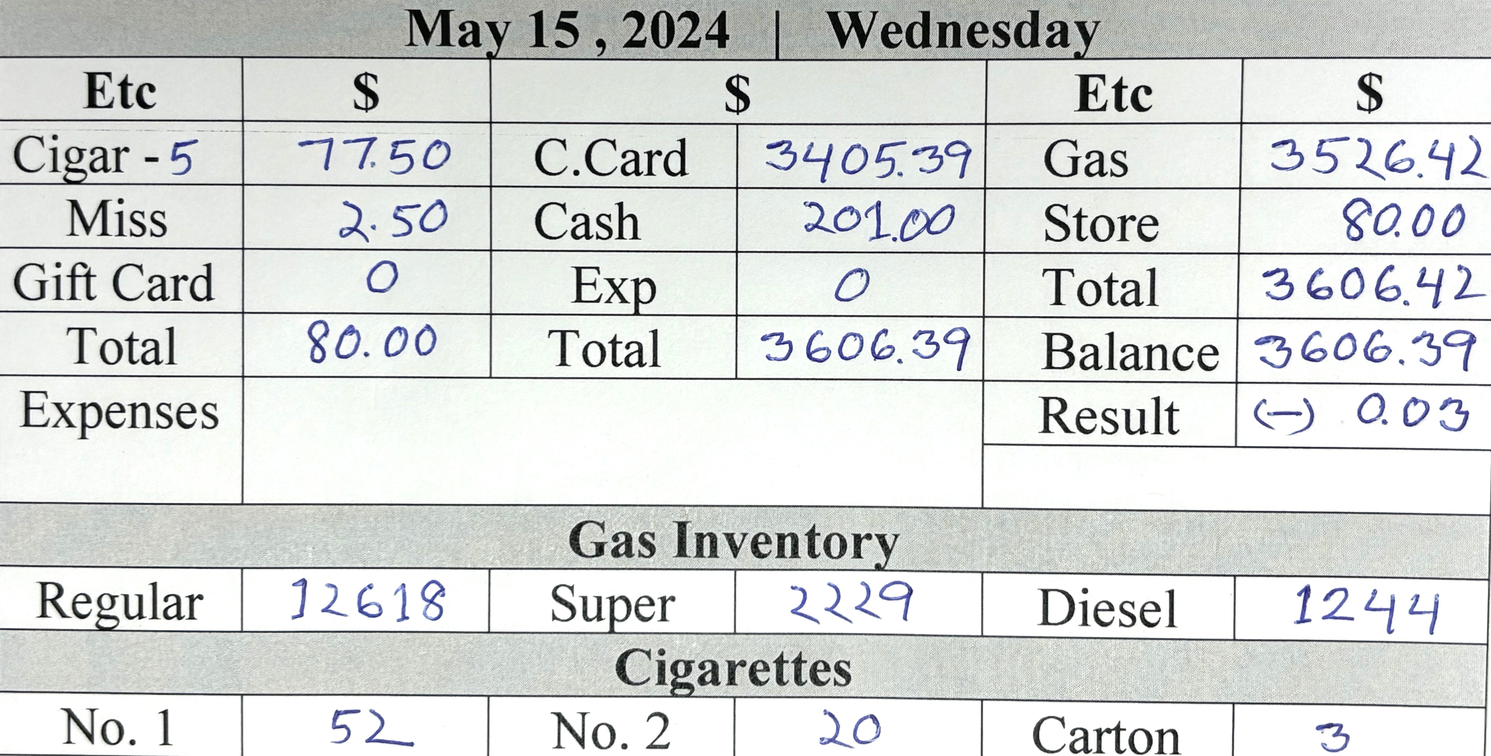
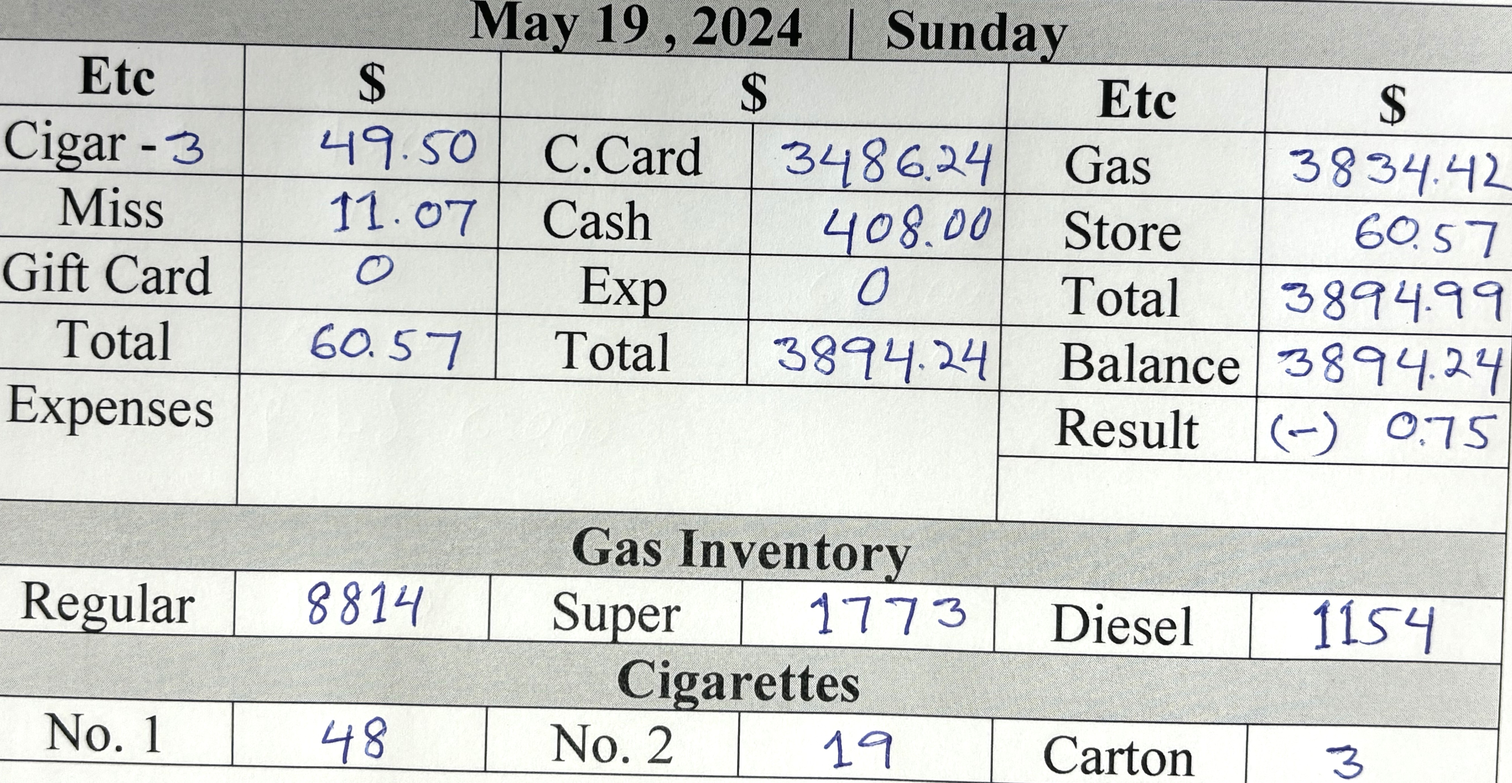
d

diff --git a/card.min.html b/card.min.html
@@ -1,1 +1,1 @@
-<!DOCTYPE html> <html lang="en"> <head> <meta charset="UTF-8"> <meta http-equiv="X-UA-Compatible" content="IE=edge"> <meta name="viewport" content="width=device-width,initial-scale=1"> <title>Gallon Info</title> <link rel="stylesheet" href="https://cdn.jsdelivr.net/npm/bootstrap@5.3.0-alpha1/dist/css/bootstrap.min.css"> </head> <body> <div class="card-group d-sm-flex flex-row bd-highlight mb- justify-content-center"> <div class="card bg-secondary align-items-center justify-content-center" style="height:50px"> <div class="card-body text-info fst-italic"> <h5 class="card-title fw-bolder text-center">Regular Price : <span class="text-warning">$3.59 <sup class="text-white fw-bolder fs-5">9</sup></span></h5> </div> </div> <div class="card bg-secondary align-items-center justify-content-center" style="height:50px"> <div class="card-body text-info fst-italic"> <h5 class="card-title fw-bolder text-center pt-">Silver Price : <span class="text-warning">$4.55<sup class="text-white fw-bolder fs-5">9</sup></span></h5> </div> </div> <div class="card bg-secondary align-items-center justify-content-center" style="height:50px"> <div class="card-body text-info fst-italic"> <h5 class="card-title fw-bolder text-center">Super Price : <span class="text-warning">$4.65<sup class="text-white fw-bolder fs-5">9</sup></span></h5> </div> </div> <div class="card bg-secondary align-items-center justify-content-center" style="height:50px"> <div class="card-body text-info fst-italic"> <h5 class="card-title fw-bolder text-center">Diesel Price : <span class="text-warning">$4.45<sup class="text-white fw-bolder fs-5">9</sup></span></h5> </div> </div> </div> <div class="card-group"> <div class="card"> <button type="button" class="btn btn-warning text- fs- fw-bold text-uppercase"> For store Details <a title="printPage Me" class="text-bg-danger ms-3 fw-bolder p-1 rounded-3 text-decoration-none" href="index.html"> Click Me </a> </button> </div> </div> <div class="card-group m-0 d-sm-flex flex-row bd-highlight mb-"> <div class="card me-1 bg-info"> <h5 class="card-title text-center pt-4 m-0"> <button class="p-1 rounded-3" type="button"><a title="Click Me" class="text-decoration-none text-primary fw-bolder" href="index.html">   </a> </button> </h5>  <p class="card-text"></p> <img src="allPic/15.jpg" class="card-img-top text-danger text-center fw-bolder fs-3" alt="Call Rashid "> <div class="card-body">   <p class="card-text"></p> </div> </div> <div class="card me-1 bg-info"> <h5 class="card-title text-center pt-4 m-0"> <button class="p-1 rounded-3" type="button"><a title="Click Me" class="text-primary fw-bolder text-decoration-none" href="index.html"> May 14,2024 </a> </button> </h5>  <p class="card-text"></p> <img src="allPic/14.jpg" class="card-img-top text-center text-bg-danger" alt="Not Done"> <div class="card-body">   <p class="card-text"></p> </div> </div> <div class="card ms- bg-info"> <h5 class="card-title text-center pt-4 m-0"> <button class="p-1 rounded-3" type="button"><a title="Click Me" class="text-primary fw-bolder text-decoration-none" href="index.html"> May 13 ,2024 </a> </button> </h5>  <p class="card-text"></p> <img src="allPic/13.jpg" class="card-img-top text-center text-bg-danger" alt="Not Done"> <div class="card-body">   <p class="card-text"></p> </div> </div> <div class="card me-1 bg-info"> <h5 class="card-title text-center pt-4 m-0"> <button class="p-1 rounded-3" type="button"><a title="Click Me" class="text-primary fw-bolder text-decoration-none" href="index.html"> May 12,2024 </a> </button> </h5>  <p class="card-text"></p> <img title="Pic" src="allPic/12.jpg" class="card-img-top text-bg-danger fw-bolder text-center" alt="Already Done"> <div class="card-body">   <p class="card-text"></p> </div> </div> </div> <div class="card"> <div class="card-header bg-warning text-dark fw-bolder text-center py-3"> All Rights Reserved @ Jaber Ali , 2024 </div> </div>  <script type="text/javascript">const timeElement=document.querySelector(".time"),dateElement=document.querySelector(".date");function formatTime(e){e.getHours(),e.getMinutes(),e.getHours();return""}function formatDate(e){return` ${["January","Marruary","March","April","May","June","July","August","September","October","November","December"][e.getMonth()]} ${e.getDate()-1}, ${e.getFullYear()}`}setInterval((()=>{const e=new Date;timeElement.textContent=formatTime(e),dateElement.textContent=formatDate(e)}),200)</script> 
+<!DOCTYPE html> <html lang="en"> <head> <meta charset="UTF-8"> <meta http-equiv="X-UA-Compatible" content="IE=edge"> <meta name="viewport" content="width=device-width,initial-scale=1"> <title>Gallon Info</title> <link rel="stylesheet" href="https://cdn.jsdelivr.net/npm/bootstrap@5.3.0-alpha1/dist/css/bootstrap.min.css"> </head> <body> <div class="card-group d-sm-flex flex-row bd-highlight mb- justify-content-center"> <div class="card bg-secondary align-items-center justify-content-center" style="height:50px"> <div class="card-body text-info fst-italic"> <h5 class="card-title fw-bolder text-center">Regular Price : <span class="text-warning">$3.59 <sup class="text-white fw-bolder fs-5">9</sup></span></h5> </div> </div> <div class="card bg-secondary align-items-center justify-content-center" style="height:50px"> <div class="card-body text-info fst-italic"> <h5 class="card-title fw-bolder text-center pt-">Silver Price : <span class="text-warning">$4.55<sup class="text-white fw-bolder fs-5">9</sup></span></h5> </div> </div> <div class="card bg-secondary align-items-center justify-content-center" style="height:50px"> <div class="card-body text-info fst-italic"> <h5 class="card-title fw-bolder text-center">Super Price : <span class="text-warning">$4.65<sup class="text-white fw-bolder fs-5">9</sup></span></h5> </div> </div> <div class="card bg-secondary align-items-center justify-content-center" style="height:50px"> <div class="card-body text-info fst-italic"> <h5 class="card-title fw-bolder text-center">Diesel Price : <span class="text-warning">$4.45<sup class="text-white fw-bolder fs-5">9</sup></span></h5> </div> </div> </div> <div class="card-group"> <div class="card"> <button type="button" class="btn btn-warning text- fs- fw-bold text-uppercase"> For store Details <a title="printPage Me" class="text-bg-danger ms-3 fw-bolder p-1 rounded-3 text-decoration-none" href="index.html"> Click Me </a> </button> </div> </div> <div class="card-group m-0 d-sm-flex flex-row bd-highlight mb-"> <div class="card me-1 bg-info"> <h5 class="card-title text-center pt-4 m-0"> <button class="p-1 rounded-3" type="button"><a title="Click Me" class="text-decoration-none text-primary fw-bolder" href="index.html">   </a> </button> </h5>  <p class="card-text"></p> <img src="allPic/19.jpg" class="card-img-top text-danger text-center fw-bolder fs-3" alt="Call Rashid "> <div class="card-body">   <p class="card-text"></p> </div> </div> <div class="card me-1 bg-info"> <h5 class="card-title text-center pt-4 m-0"> <button class="p-1 rounded-3" type="button"><a title="Click Me" class="text-primary fw-bolder text-decoration-none" href="index.html"> May 18,2024 </a> </button> </h5>  <p class="card-text"></p> <img src="allPic/18.jpg" class="card-img-top text-center text-bg-danger" alt="Not Done"> <div class="card-body">   <p class="card-text"></p> </div> </div> <div class="card ms- bg-info"> <h5 class="card-title text-center pt-4 m-0"> <button class="p-1 rounded-3" type="button"><a title="Click Me" class="text-primary fw-bolder text-decoration-none" href="index.html"> May 17 ,2024 </a> </button> </h5>  <p class="card-text"></p> <img src="allPic/17.jpg" class="card-img-top text-center text-bg-danger" alt="Not Done"> <div class="card-body">   <p class="card-text"></p> </div> </div> <div class="card me-1 bg-info"> <h5 class="card-title text-center pt-4 m-0"> <button class="p-1 rounded-3" type="button"><a title="Click Me" class="text-primary fw-bolder text-decoration-none" href="index.html"> May 16,2024 </a> </button> </h5>  <p class="card-text"></p> <img title="Pic" src="allPic/16.jpg" class="card-img-top text-bg-danger fw-bolder text-center" alt="Already Done"> <div class="card-body">   <p class="card-text"></p> </div> </div> </div> <div class="card"> <div class="card-header bg-warning text-dark fw-bolder text-center py-3"> All Rights Reserved @ Jaber Ali , 2024 </div> </div>  <script type="text/javascript">const timeElement=document.querySelector(".time"),dateElement=document.querySelector(".date");function formatTime(e){e.getHours(),e.getMinutes(),e.getHours();return""}function formatDate(e){return` ${["January","Marruary","March","April","May","June","July","August","September","October","November","December"][e.getMonth()]} ${e.getDate()-1}, ${e.getFullYear()}`}setInterval((()=>{const e=new Date;timeElement.textContent=formatTime(e),dateElement.textContent=formatDate(e)}),200)</script> 

diff --git a/weekly.min.html b/weekly.min.html
@@ -1,1 +1,1 @@
-<!DOCTYPE html> <html lang="en"> <meta charset="UTF-8"> <meta http-equiv="X-UA-Compatible" content="IE=edge"> <meta name="viewport" content="width=device-width,initial-scale=1"> <title>Cigarettes Info</title> <link rel="stylesheet" href="https://cdn.jsdelivr.net/npm/bootstrap@5.3.0-alpha1/dist/css/bootstrap.min.css">  <body> <div class="text-bg-success py-2 fw-bold"> <marquee behavior="" direction="">Weekly Total Sales Money</marquee> </div> <div class="container-fluid text-center m-0 p-0"> <div class="card-group"> <div class="card"> <button type="button" class="btn btn-warning fs- fw-bold text-uppercase"> Home Page <a title="printPage Me" class="text-bg-danger ms-2 fw-bolder p-1 rounded-3 text-decoration-none" href="index.html"> Click Me </a> </button> </div> </div> <div class="text-bg-info text-cente py- fw-bold mb-"> <div class="card-group m-0 d-sm-flex flex-row bd-highlight mb-"> <div class="card me- bg-inf"> <h5 class="text-center ms-5 mt-3 text-danger">Current Week</h5> <div class="card-body ms-3 p-0"> <table class="table"> <tr class="text-end"> <td>Monday </td> <td>:</td> <td class="text-start"> 591.00 </td> </tr> <tr class="text-end"> <td>Tuesday </td> <td> :</td> <td class="text-start"> 995.00 </td> </tr> <tr class="text-end"> <td>Wednesday</td> <td> :</td> <td class="text-start"> 201.00</td> </tr> <tr class="text-end"> <td>Thursday </td> <td> :</td> <td class="text-start"> .00 </td> </tr> <tr class="text-end"> <td class="">Friday </td> <td> :</td> <td class="text-start"> .00</td> </tr> <tr class="text-end"> <td>Saturday </td> <td> :</td> <td class="text-start"> .00</td> </tr> <tr class="text-end"> <td>Sunday </td> <td> :</td> <td class="text-start"> .00 </td> </tr> <tr class="text-end"> <td>Auto Money </td> <td> :</td> <td class="text-start"> .00 </td> </tr> </table> <div class="m-0 p-0"> <p class="text-center text-danger bg-light fw-bold">Total Money : 0 </p> </div> </div> </div> <div class="card me- bg-inf"> <h5 class="text-center ms- mt-3 text-danger">Last Week : May 6 to 11 , 2024</h5> <div class="card-body ms-3 p-0"> <table class="table"> <tr class="text-end"> <td>Monday </td> <td>:</td> <td class="text-start"> - 497.00 [auto pabe]</td> </tr> <tr class="text-end"> <td>Tuesday </td> <td> :</td> <td class="text-start"> 899.00 </td> </tr> <tr class="text-end"> <td>Wednesday</td> <td> :</td> <td class="text-start"> 577.00</td> </tr> <tr class="text-end"> <td>Thursday </td> <td> :</td> <td class="text-start">841.00 </td> </tr> <tr class="text-end"> <td class="">Friday </td> <td> :</td> <td class="text-start"> 613.00</td> </tr> <tr class="text-end"> <td>Saturday </td> <td> :</td> <td class="text-start"> 489.00</td> </tr> <tr class="text-end"> <td>Sunday </td> <td> :</td> <td class="text-start"> 636.00 </td> </tr> <tr class="text-end"> <td>Auto Money </td> <td> :</td> <td class="text-start"> 1425 <sup class="p-1 rounded-4 text-bg-dark">Tax:96</sup> [Mostofa=1330] </td> </tr> </table> <div class="m-0 p-0"> <p class="text-center text-danger bg-light fw-bold">Total Money : 4983 - 1097 = 3886 </p> </div> </div> </div> <div class="card me- bg-"> <div class="card-body"> <h5 class="text-start text-danger ms-2">Expenses of Last Week</h5> <table class="table text-start"> <tr> <td class="">Ali <span class="ms-5">: 525.00</span></td> </tr> <tr> <td class="">Rashid <span class="ms-3">: 572.00</span></td> </tr> <tr> </tr> <tr> </tr> <tr> <td class="text-bg-warning text-dark rounded-2">Total <span class="ms-4">: 1097.00</span></td> </tr> </table> </div> </div> </div> </div> <!-- #footer start --> <div class="text-bg-success text-center py-2 fw-bold"> <p> All Rights Reserved @ Jaber Ali , 2024  </p> </div> </div> <script type="text/javascript">function printPage(){window.print()}</script> 
+<!DOCTYPE html> <html lang="en"> <meta charset="UTF-8"> <meta http-equiv="X-UA-Compatible" content="IE=edge"> <meta name="viewport" content="width=device-width,initial-scale=1"> <title>Cigarettes Info</title> <link rel="stylesheet" href="https://cdn.jsdelivr.net/npm/bootstrap@5.3.0-alpha1/dist/css/bootstrap.min.css">  <body> <div class="text-bg-success py-2 fw-bold"> <marquee behavior="" direction="">Weekly Total Sales Money</marquee> </div> <div class="container-fluid text-center m-0 p-0"> <div class="card-group"> <div class="card"> <button type="button" class="btn btn-warning fs- fw-bold text-uppercase"> Home Page <a title="printPage Me" class="text-bg-danger ms-2 fw-bolder p-1 rounded-3 text-decoration-none" href="index.html"> Click Me </a> </button> </div> </div> <div class="text-bg-info text-cente py- fw-bold mb-"> <div class="card-group m-0 d-sm-flex flex-row bd-highlight mb-"> <div class="card me- bg-inf"> <h5 class="text-center ms-5 mt-3 text-danger">Current Week</h5> <div class="card-body ms-3 p-0"> <table class="table"> <tr class="text-end"> <td>Monday </td> <td>:</td> <td class="text-start"> 591.00 </td> </tr> <tr class="text-end"> <td>Tuesday </td> <td> :</td> <td class="text-start"> 995.00 </td> </tr> <tr class="text-end"> <td>Wednesday</td> <td> :</td> <td class="text-start"> 201.00</td> </tr> <tr class="text-end"> <td>Thursday </td> <td> :</td> <td class="text-start"> - 183.00 [ auto pabe ] </td> </tr> <tr class="text-end"> <td class="">Friday </td> <td> :</td> <td class="text-start"> 684.00</td> </tr> <tr class="text-end"> <td>Saturday </td> <td> :</td> <td class="text-start"> 346.00</td> </tr> <tr class="text-end"> <td>Sunday </td> <td> :</td> <td class="text-start"> 408.00 </td> </tr> <tr class="text-end"> <td>Auto Money </td> <td> :</td> <td class="text-start"> .00 </td> </tr> </table> <div class="m-0 p-0"> <p class="text-center text-danger bg-light fw-bold">Total Money : 0 </p> </div> </div> </div> <div class="card me- bg-inf"> <h5 class="text-center ms- mt-3 text-danger">Last Week : May 13 to 18 , 2024</h5> <div class="card-body ms-3 p-0"> <table class="table"> <tr class="text-end"> <td>Monday </td> <td>:</td> <td class="text-start"> 591.00 </td> </tr> <tr class="text-end"> <td>Tuesday </td> <td> :</td> <td class="text-start"> 995.00 </td> </tr> <tr class="text-end"> <td>Wednesday</td> <td> :</td> <td class="text-start"> 201.00</td> </tr> <tr class="text-end"> <td>Thursday </td> <td> :</td> <td class="text-start"> - 183.00 [ auto pabe ] </td> </tr> <tr class="text-end"> <td class="">Friday </td> <td> :</td> <td class="text-start"> 684.00</td> </tr> <tr class="text-end"> <td>Saturday </td> <td> :</td> <td class="text-start"> 346.00</td> </tr> <tr class="text-end"> <td>Sunday </td> <td> :</td> <td class="text-start"> 408.00 </td> </tr> <tr class="text-end"> <td>Auto Money </td> <td> :</td> <td class="text-start"> 1425 <sup class="p-1 rounded-4 text-bg-dark">Tax:</sup> [Mostofa=0] </td> </tr> </table> <div class="m-0 p-0"> <p class="text-center text-danger bg-light fw-bold">Total Money : 0 - 0= Not Finish </p> </div> </div> </div> <div class="card me- bg-"> <div class="card-body"> <h5 class="text-start text-danger ms-2">Expenses of Last Week</h5> <table class="table text-start"> <tr> <td class="">Ali <span class="ms-5">: 577.00</span></td> </tr> <tr> <td class="">Rashid <span class="ms-3">: 650.00</span></td> </tr> <tr> </tr> <tr> </tr> <tr> <td class="text-bg-warning text-dark rounded-2">Total <span class="ms-4">: 1227.00</span></td> </tr> </table> </div> </div> </div> </div> <!-- #footer start --> <div class="text-bg-success text-center py-2 fw-bold"> <p> All Rights Reserved @ Jaber Ali , 2024  </p> </div> </div> <script type="text/javascript">function printPage(){window.print()}</script> 

diff --git a/weekly.html b/weekly.html
@@ -64,22 +64,22 @@
                 <tr class=" text-end">
                     <td>Thursday </td>
                     <td> :</td>
-                    <td class="text-start"> .00  </td>  
+                    <td class="text-start"> - 183.00 [ auto pabe ] </td>  
                 </tr>
                 <tr class=" text-end">
                     <td class="">Friday </td>
                     <td> :</td>
-                    <td class="text-start">  .00</td>  
+                    <td class="text-start">  684.00</td>  
                 </tr>
                 <tr class=" text-end">
                     <td>Saturday </td>
                     <td> :</td>
-                    <td class="text-start"> .00</td>
+                    <td class="text-start"> 346.00</td>
                 </tr>
                 <tr class=" text-end">
                     <td>Sunday </td>
                     <td> :</td>
-                    <td class="text-start"> .00 </td> 
+                    <td class="text-start"> 408.00 </td> 
                 </tr>
                 <tr class=" text-end">
                   <td>Auto Money </td>
@@ -97,56 +97,56 @@
         </div>
 <!-- last week -->
 <div class="card me- bg-inf">
-  <h5 class=" text-center ms- mt-3 text-danger">Last Week : May 6 to 11 , 2024</h5>
+  <h5 class=" text-center ms- mt-3 text-danger">Last Week : May 13 to 18 , 2024</h5>
   <!-- left side -->
   <div class="card-body ms-3 p-0">
     <table class="table ">
       <tr class="text-end">
         <td >Monday </td>
         <td >:</td>
-        <td class="text-start"> - 497.00 [auto pabe]</td>
+        <td class="text-start"> 591.00 </td>
     </tr>
     <tr class=" text-end">
         <td>Tuesday </td>
         <td> :</td>
-        <td class="text-start">  899.00 </td>
+        <td class="text-start">  995.00 </td>
     </tr>
     <tr class=" text-end">
         <td>Wednesday</td>
         <td> :</td>
-        <td class="text-start"> 577.00</td>
+        <td class="text-start"> 201.00</td>
     </tr>
     <tr class=" text-end">
         <td>Thursday </td>
         <td> :</td>
-        <td class="text-start">841.00  </td>  
+        <td class="text-start"> - 183.00 [ auto pabe ] </td>  
     </tr>
     <tr class=" text-end">
         <td class="">Friday </td>
         <td> :</td>
-        <td class="text-start">  613.00</td>  
+        <td class="text-start">  684.00</td>  
     </tr>
     <tr class=" text-end">
         <td>Saturday </td>
         <td> :</td>
-        <td class="text-start"> 489.00</td>
+        <td class="text-start"> 346.00</td>
     </tr>
     <tr class=" text-end">
         <td>Sunday </td>
         <td> :</td>
-        <td class="text-start"> 636.00 </td> 
+        <td class="text-start"> 408.00 </td> 
     </tr>
       <tr class=" text-end">
         <td>Auto Money </td>
         <td> :</td>
         <td class="text-start"> 1425
-          <sup class=" p-1 rounded-4 text-bg-dark">Tax:96</sup> [Mostofa=1330]  
+          <sup class=" p-1 rounded-4 text-bg-dark">Tax:</sup> [Mostofa=0]  
         </td>
     </tr>
 
   </table>
     <div class="m-0 p-0 ">
-        <p class="text-center text-danger bg-light fw-bold ">Total Money : 4983 - 1097 = 3886 
+        <p class="text-center text-danger bg-light fw-bold ">Total Money : 0 -  0= Not Finish
           
         </p>
     </div>
@@ -158,10 +158,10 @@
            <h5 class=" text-start text-danger ms-2">Expenses of Last Week</h5>
            <table class="table text-start">
             <tr>
-                <td class="">Ali  <span class="ms-5">:  525.00</span></td>
+                <td class="">Ali  <span class="ms-5">:  577.00</span></td>
             </tr>
             <tr>
-              <td class="">Rashid  <span class="ms-3">:  572.00</span></td>
+              <td class="">Rashid  <span class="ms-3">:  650.00</span></td>
           </tr>
            <tr>
           <!-- <td class="">Landscaping <span class="ms-2">:  120.00</span></td>  -->
@@ -170,7 +170,7 @@
           <!-- <td class="">Pump Test <span class="ms-2">:  2.00</span></td> -->
       </tr> 
         <tr>
-          <td class=" text-bg-warning text-dark rounded-2">Total  <span class="ms-4">:  1097.00</span></td>
+          <td class=" text-bg-warning text-dark rounded-2">Total  <span class="ms-4">:  1227.00</span></td>
       </tr>
              </table> 
            

diff --git a/oil.min.html b/oil.min.html
@@ -1,1 +1,1 @@
-<!DOCTYPE html> <html lang="en"> <meta charset="UTF-8"> <meta http-equiv="X-UA-Compatible" content="IE=edge"> <meta name="viewport" content="width=device-width,initial-scale=1"> <title>Oil Inentory</title> <link rel="stylesheet" href="https://cdn.jsdelivr.net/npm/bootstrap@5.3.0-alpha1/dist/css/bootstrap.min.css">  <body> <div class="text-bg-success py-2 fw-bold"> <marquee behavior="" direction="">OIL INVENTORY</marquee> </div> <div class="container-fluid text-center m-0 p-0"> <div class="card-group"> <div class="card"> <button type="button" class="btn btn-warning fs- fw-bold text-uppercase"> Home Page <a title="printPage Me" class="text-bg-danger ms-2 fw-bolder p-1 rounded-3 text-decoration-none" href="index.html"> Click Me </a> </button> </div> </div> <div class="text-bg-inf fw-bold mb-"> <div class="card-group m- text-cente d-sm-flex flex-row bd-highlight mb-"> <div class="container mt-3"> <h3>Oil Inventory</h3> <div class="table-responsive-sm"> <table class="table table-bordered"> <tbody> <thead class="text-bg-dark fw-bolder"> <tr> <td>Name</td> <td>Quantity</td> <td>Sold</td> </tr> </thead> <tr> <td>Synthetic Oil</td> <td>21</td> <td>0</td> </tr> <tr> <td>Regular Oil</td> <td>39</td> <td>0 </td> </tr> <tr> <td>Washer Fluid</td> <td>0</td> <td>0</td> </tr> <tr> <td>Antifreeze </td> <td>2</td> <td>0</td> </tr> <tr> <td>Gas Can</td> <td>3</td> <td>0</td> </tr> <tr> <td>Rhino Item</td> <td>106</td> <td>0</td> </tr> </tbody> </table> </div> </div> </div> </div> </div> <!-- #footer start --> <div class="text-bg-success text-center py-2 fw-bold"> <p> All Rights Reserved @ Jaber Ali , 2024  </p> </div>  <script type="text/javascript">function printPage(){window.print()}</script> 
+<!DOCTYPE html> <html lang="en"> <meta charset="UTF-8"> <meta http-equiv="X-UA-Compatible" content="IE=edge"> <meta name="viewport" content="width=device-width,initial-scale=1"> <title>Oil Inentory</title> <link rel="stylesheet" href="https://cdn.jsdelivr.net/npm/bootstrap@5.3.0-alpha1/dist/css/bootstrap.min.css">  <body> <div class="text-bg-success py-2 fw-bold"> <marquee behavior="" direction="">OIL INVENTORY</marquee> </div> <div class="container-fluid text-center m-0 p-0"> <div class="card-group"> <div class="card"> <button type="button" class="btn btn-warning fs- fw-bold text-uppercase"> Home Page <a title="printPage Me" class="text-bg-danger ms-2 fw-bolder p-1 rounded-3 text-decoration-none" href="index.html"> Click Me </a> </button> </div> </div> <div class="text-bg-inf fw-bold mb-"> <div class="card-group m- text-cente d-sm-flex flex-row bd-highlight mb-"> <div class="container mt-3"> <h3>Oil Inventory</h3> <div class="table-responsive-sm"> <table class="table table-bordered"> <tbody> <thead class="text-bg-dark fw-bolder"> <tr> <td>Name</td> <td>Quantity</td> <td>Sold</td> </tr> </thead> <tr> <td>Synthetic Oil</td> <td>21</td> <td>0</td> </tr> <tr> <td>Regular Oil</td> <td>38</td> <td>1 </td> </tr> <tr> <td>Washer Fluid</td> <td>0</td> <td>0</td> </tr> <tr> <td>Antifreeze </td> <td>2</td> <td>0</td> </tr> <tr> <td>Gas Can</td> <td>3</td> <td>0</td> </tr> <tr> <td>Rhino Item</td> <td>106</td> <td>0</td> </tr> </tbody> </table> </div> </div> </div> </div> </div> <!-- #footer start --> <div class="text-bg-success text-center py-2 fw-bold"> <p> All Rights Reserved @ Jaber Ali , 2024  </p> </div>  <script type="text/javascript">function printPage(){window.print()}</script> 

diff --git a/card.html b/card.html
@@ -67,7 +67,7 @@
         </h5>
           <p class="card-text"></p>
           <p class="card-text"><small class="text-muted"></small></p>
-        <img src="allPic/15.jpg" class="card-img-top text-danger text-center fw-bolder fs-3"   alt="Call Rashid ">
+        <img src="allPic/19.jpg" class="card-img-top text-danger text-center fw-bolder fs-3"   alt="Call Rashid ">
         <div class="card-body">
           <h5 class="card-title"></h5>
           <p class="card-text"></p>
@@ -78,13 +78,13 @@
         <h5 class="card-title text-center pt-4 m-0">
           <button class="p-1 rounded-3" type="button"><a title="Click Me"
              class="text-primary fw-bolder text-decoration-none " href="index.html">
-             May 14,2024
+             May 18,2024
           </a>
           </button>
         </h5>
           <p class="card-text"></p>
           <p class="card-text"><small class="text-muted"></small></p>
-        <img src="allPic/14.jpg" class="card-img-top text-center text-bg-danger" 
+        <img src="allPic/18.jpg" class="card-img-top text-center text-bg-danger" 
         alt="Not Done">
         <div class="card-body">
           <h5 class="card-title"></h5>
@@ -96,13 +96,13 @@
         <h5 class="card-title text-center pt-4 m-0 ">
           <button class="p-1 rounded-3" type="button"><a title="Click Me" 
             class="text-primary fw-bolder text-decoration-none " href="index.html">
-            May 13 ,2024         
+            May 17 ,2024         
           </a>
           </button>
           </h5>
           <p class="card-text"></p>
           <p class="card-text"><small class="text-muted"></small></p>
-        <img src="allPic/13.jpg" class="card-img-top text-center text-bg-danger" 
+        <img src="allPic/17.jpg" class="card-img-top text-center text-bg-danger" 
         alt="Not Done">
         <div class="card-body">
           <h5 class="card-title"></h5>
@@ -115,13 +115,13 @@
         <h5 class="card-title text-center pt-4 m-0 ">
           <button class="p-1 rounded-3" type="button"><a title="Click Me" 
             class="text-primary fw-bolder text-decoration-none " href="index.html">
-             May 12,2024
+             May 16,2024
             </a>
           </button>
           </h5>
           <p class="card-text"></p>
           <p class="card-text"><small class="text-muted"></small></p>
-        <img title="Pic" src="allPic/12.jpg" class="card-img-top  text-bg-danger fw-bolder text-center"
+        <img title="Pic" src="allPic/16.jpg" class="card-img-top  text-bg-danger fw-bolder text-center"
          alt="Already Done">
         <div class="card-body">
           <h5 class="card-title"></h5>

diff --git a/oil.html b/oil.html
@@ -61,8 +61,8 @@
                   </tr>
                   <tr>
                     <td>Regular Oil</td>
-                    <td>39</td>
-                    <td>0 </td>
+                    <td>38</td>
+                    <td>1 </td>
                   </tr>
                  
                   <tr>
